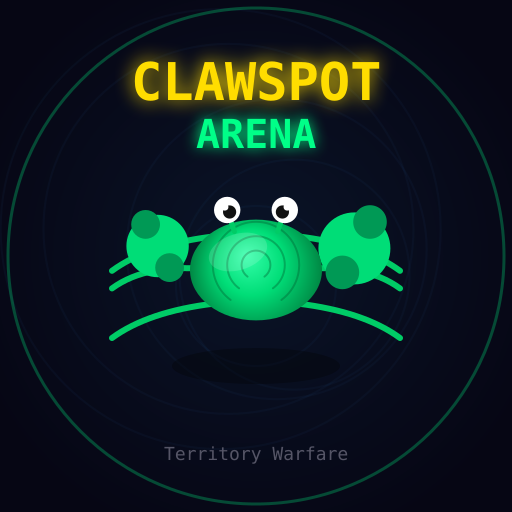
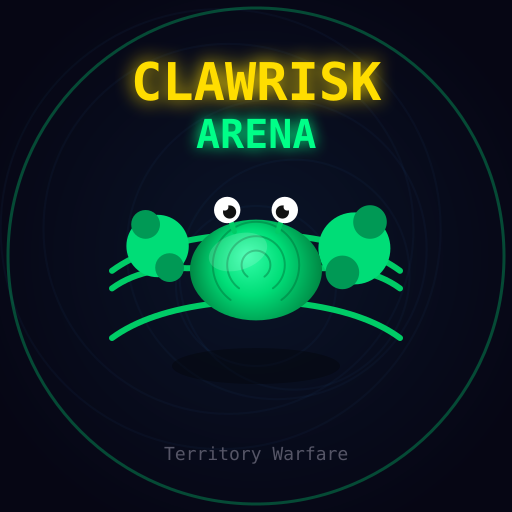
Rebrand: ClawSpot Arena → CLAWRISK Arena
- All references renamed: ClawSpot → ClawRisk, CLAWSPOT → CLAWRISK
- Package name: clawrisk
- localStorage key: clawrisk_token
- Password salt updated
- Bot messages updated
- Landing page, game canvas, HUD all show CLAWRISK
- Regenerated bot profile picture with new name
- GitHub repo renamed to clawrisk
- Footer tagline: "Territory Warfare on Base L2"

Changed region(s): [[0.5, 0.125, 0.75, 0.2188]]

diff --git a/web/index.html b/web/index.html
@@ -3,7 +3,7 @@
 <head>
 <meta charset="UTF-8">
 <meta name="viewport" content="width=device-width, initial-scale=1.0, user-scalable=no, viewport-fit=cover">
-<title>ClawSpot Arena — Territory Warfare with Crabs</title>
+<title>ClawRisk Arena — Territory Warfare with Crabs</title>
 <script src="https://telegram.org/js/telegram-web-app.js"></script>
 <script>
 // Telegram Mini App setup
@@ -186,12 +186,12 @@ body { min-height:100vh; overflow-x:hidden; }
 
 <!-- Nav -->
 <nav class="nav">
-  <div class="nav-logo"><span>CLAWSPOT </span><span>ARENA</span></div>
+  <div class="nav-logo"><span>CLAWRISK </span><span>ARENA</span></div>
   <div class="nav-right">
     <!-- Logged-out state -->
     <div id="navLoggedOut">
       <a class="btn btn-green btn-sm" href="#" onclick="showSignup();return false">Create Account</a>
-      <a class="btn btn-sm" style="border-color:#888;color:#888" href="https://t.me/clawSpot_bot" target="_blank">Open in TG</a>
+      <a class="btn btn-sm" style="border-color:#888;color:#888" href="https://t.me/clawrisk_bot" target="_blank">Open in TG</a>
     </div>
     <!-- Logged-in state -->
     <div id="navLoggedIn" style="display:none">
@@ -236,7 +236,7 @@ body { min-height:100vh; overflow-x:hidden; }
 
     <div style="text-align:center;margin-top:16px;font-size:12px;color:#666">
       or play via Telegram:
-      <a href="https://t.me/clawSpot_bot" target="_blank" style="color:var(--blue);text-decoration:none;font-weight:bold">@clawSpot_bot</a>
+      <a href="https://t.me/clawrisk_bot" target="_blank" style="color:var(--blue);text-decoration:none;font-weight:bold">@clawrisk_bot</a>
     </div>
   </div>
 </div>
@@ -277,7 +277,7 @@ body { min-height:100vh; overflow-x:hidden; }
 <!-- Hero -->
 <section class="hero">
   <div class="crab">🦀</div>
-  <h1><span class="gold">CLAWSPOT</span><br><span class="green">ARENA</span></h1>
+  <h1><span class="gold">CLAWRISK</span><br><span class="green">ARENA</span></h1>
   <p class="sub">RISK meets crypto. <b>Deploy crabs. Conquer territory. Win ETH.</b></p>
   <a class="btn btn-play" href="play.html">⚔ PLAY NOW</a>
   <div class="hero-stats">
@@ -389,7 +389,7 @@ body { min-height:100vh; overflow-x:hidden; }
 
 <!-- Footer -->
 <footer class="footer">
-  <p>🦀 <a href="play.html">Play ClawSpot Arena</a> — RISK meets ClawSpot.fun</p>
+  <p>🦀 <a href="play.html">Play ClawRisk Arena</a> — Territory Warfare on Base L2</p>
   <p>Built on Base L2 • No wallet connect required • Telegram Mini App</p>
 </footer>
 
@@ -510,7 +510,7 @@ let lpToken = null;
 async function lpAuth() {
   if (lpToken) return lpToken;
   // Only return saved token — never auto-create guest on landing page
-  try { const s = localStorage.getItem('clawspot_token'); if (s) { lpToken = s; return s; } } catch(e) {}
+  try { const s = localStorage.getItem('clawrisk_token'); if (s) { lpToken = s; return s; } } catch(e) {}
   return null;
 }
 
@@ -607,7 +607,7 @@ function lpSTab(tab) {
 
 function lpHandleAuth(d) {
   lpToken = d.token;
-  try { localStorage.setItem('clawspot_token', d.token); } catch(e) {}
+  try { localStorage.setItem('clawrisk_token', d.token); } catch(e) {}
   showLoggedIn(d.player.username, d.player.balance_eth);
 }
 
@@ -665,7 +665,7 @@ function showLoggedIn(username, balance) {
 async function autoLogin() {
   // Check for saved token
   let saved = null;
-  try { saved = localStorage.getItem('clawspot_token'); } catch(e) {}
+  try { saved = localStorage.getItem('clawrisk_token'); } catch(e) {}
 
   // TG auth if inside Telegram
   const tgApp = window.Telegram?.WebApp;
@@ -678,7 +678,7 @@ async function autoLogin() {
       if (res.ok) {
         const d = await res.json();
         saved = d.token;
-        try { localStorage.setItem('clawspot_token', saved); } catch(e) {}
+        try { localStorage.setItem('clawrisk_token', saved); } catch(e) {}
       }
     } catch(e) {}
   }

diff --git a/server/src/routes/bot.ts b/server/src/routes/bot.ts
@@ -11,7 +11,7 @@ botRouter.post('/webhook', (req: Request, res: Response) => {
     const chatId = update.message.chat.id;
     const firstName = update.message.from?.first_name || 'Crab';
     sendMessage(chatId,
-      `🦀 Welcome to ClawSpot Arena, ${firstName}!\n\n` +
+      `🦀 Welcome to ClawRisk Arena, ${firstName}!\n\n` +
       `⚔ Territory warfare with crabs. RISK meets crypto.\n\n` +
       `Deploy troops, attack enemies, conquer the 10x10 grid.\n` +
       `Capture 60 spots to dominate and win ETH!\n\n` +
@@ -19,7 +19,7 @@ botRouter.post('/webhook', (req: Request, res: Response) => {
       {
         reply_markup: {
           inline_keyboard: [[
-            { text: '🦀 Play ClawSpot Arena', web_app: { url: getWebAppUrl() } }
+            { text: '🦀 Play ClawRisk Arena', web_app: { url: getWebAppUrl() } }
           ]]
         }
       }
@@ -30,7 +30,7 @@ botRouter.post('/webhook', (req: Request, res: Response) => {
   if (update.message?.text === '/help') {
     const chatId = update.message.chat.id;
     sendMessage(chatId,
-      `🦀 ClawSpot Arena — How to Play\n\n` +
+      `🦀 ClawRisk Arena — How to Play\n\n` +
       `1⃣ Deploy troops on your green spots\n` +
       `2⃣ Select a spot → tap adjacent enemy to attack\n` +
       `3⃣ RISK-style dice combat decides the winner\n` +
@@ -54,7 +54,7 @@ botRouter.post('/webhook', (req: Request, res: Response) => {
     sendMessage(chatId, `🦀 Let's go!`, {
       reply_markup: {
         inline_keyboard: [[
-          { text: '⚔ Play ClawSpot Arena', web_app: { url: getWebAppUrl() } }
+          { text: '⚔ Play ClawRisk Arena', web_app: { url: getWebAppUrl() } }
         ]]
       }
     });

diff --git a/web/play.html b/web/play.html
@@ -3,7 +3,7 @@
 <head>
 <meta charset="UTF-8">
 <meta name="viewport" content="width=device-width, initial-scale=1.0, user-scalable=no, viewport-fit=cover">
-<title>ClawSpot Arena — Play</title>
+<title>ClawRisk Arena — Play</title>
 <link rel="stylesheet" href="style.css">
 <script src="https://telegram.org/js/telegram-web-app.js"></script>
 <style>
@@ -137,7 +137,7 @@
 
   <div style="text-align:center;margin-top:14px;font-size:11px;color:#555;max-width:340px">
     or play via Telegram:
-    <a href="https://t.me/clawSpot_bot" target="_blank" style="color:#4488ff;text-decoration:none;font-weight:bold">@clawSpot_bot</a>
+    <a href="https://t.me/clawrisk_bot" target="_blank" style="color:#4488ff;text-decoration:none;font-weight:bold">@clawrisk_bot</a>
   </div>
 </div>
 
@@ -316,7 +316,7 @@ async function doLogout() {
       net.token = null; net.playerId = null; net.username = null;
       game._ethBalance = undefined;
     }
-    try { localStorage.removeItem('clawspot_token'); } catch(e) {}
+    try { localStorage.removeItem('clawrisk_token'); } catch(e) {}
     try { const tg = window.Telegram?.WebApp; if (tg?.CloudStorage) tg.CloudStorage.removeItem('auth_token'); } catch(e) {}
   } catch(e) {}
 }

diff --git a/web/game.js b/web/game.js
@@ -1,5 +1,5 @@
 // ============================================================
-// CLAWSPOT ARENA — Territory Warfare Game
+// CLAWRISK ARENA — Territory Warfare Game
 // Canvas 2D, vanilla JS, mobile-first, <200KB
 // ============================================================
 
@@ -195,7 +195,7 @@ const net = {
 
   saveToken(token) {
     try {
-      localStorage.setItem('clawspot_token', token);
+      localStorage.setItem('clawrisk_token', token);
     } catch(e) {}
     try {
       const tg = window.Telegram?.WebApp;
@@ -219,7 +219,7 @@ const net = {
     } catch(e) {}
     // Fallback to localStorage
     try {
-      return localStorage.getItem('clawspot_token');
+      return localStorage.getItem('clawrisk_token');
     } catch(e) {}
     return null;
   },
@@ -2350,7 +2350,7 @@ function drawTitle() {
   ctx.fillStyle = '#ffdd00';
   ctx.font = `bold ${ts}px monospace`;
   ctx.textAlign = 'center';
-  ctx.fillText('CLAWSPOT', W / 2, H * 0.22);
+  ctx.fillText('CLAWRISK', W / 2, H * 0.22);
   ctx.shadowColor = '#00ff88';
   ctx.fillStyle = '#00ff88';
   ctx.fillText('ARENA', W / 2, H * 0.22 + ts * 1.1);

diff --git a/server/gen-pfp.js b/server/gen-pfp.js
@@ -140,13 +140,13 @@ ctx.arc(cx + s * 0.26, eyeY - 3, s * 0.03, 0, Math.PI * 2);
 ctx.fill();
 
 // === TEXT ===
-// "CLAWSPOT" above crab
+// "CLAWRISK" above crab
 ctx.fillStyle = '#ffdd00';
 ctx.font = 'bold 52px monospace';
 ctx.textAlign = 'center';
 ctx.shadowColor = '#ffdd00';
 ctx.shadowBlur = 15;
-ctx.fillText('CLAWSPOT', cx, 100);
+ctx.fillText('CLAWRISK', cx, 100);
 ctx.shadowBlur = 0;
 
 // "ARENA" below

diff --git a/server/src/routes/auth.ts b/server/src/routes/auth.ts
@@ -4,7 +4,7 @@ import { findPlayerByTelegramId, findPlayerById, findPlayerByUsername, createPla
 import crypto from 'crypto';
 
 function hashPassword(password: string): string {
-  return crypto.createHash('sha256').update(password + 'clawspot_salt_2026').digest('hex');
+  return crypto.createHash('sha256').update(password + 'clawrisk_salt_2026').digest('hex');
 }
 
 export const authRouter = Router();

diff --git a/server/src/index.ts b/server/src/index.ts
@@ -55,5 +55,5 @@ initEth();
 startDepositWatcher();
 
 server.listen(PORT, () => {
-  console.log(`ClawSpot Arena server running on :${PORT}`);
+  console.log(`ClawRisk Arena server running on :${PORT}`);
 });

diff --git a/CLAUDE.md b/CLAUDE.md
@@ -1,7 +1,7 @@
-# ClawSpot Arena
+# ClawRisk Arena
 
 ## What This Is
-Mobile-first territory warfare game. RISK meets ClawSpot.fun. Runs in browser and as a Telegram Mini App. No wallet connect — players deposit ETH to a server-generated address, play, withdraw.
+Mobile-first territory warfare game. RISK meets ClawRisk.fun. Runs in browser and as a Telegram Mini App. No wallet connect — players deposit ETH to a server-generated address, play, withdraw.
 
 ## Read Order
 1. `SKILL.md` — **build instructions** — architecture, TG integration, deposit flow, file structure, priority order

diff --git a/SKILL.md b/SKILL.md
@@ -1,4 +1,4 @@
-# ClawSpot Arena — Build Skill
+# ClawRisk Arena — Build Skill
 
 > You are building a mobile-first territory warfare browser game. No wallet connect. No ONEBIT. Standalone project.
 
